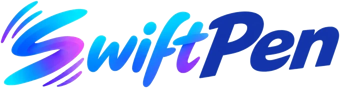
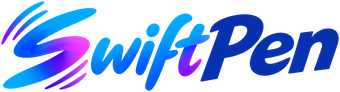
Logotipo nuevo en la web, el correo, la portada y las capturas
El mismo PNG que la app (más resolución, sin borde blanco, degradados
limpios), reducido a cada tamaño. La portada se rehizo quitando el logo
viejo y rellenando su hueco con el degradado del fondo; las capturas de
la biblioteca llevan el logo nuevo en la barra. URLs con versión nueva para
que el correo y las redes no sirvan el viejo desde caché.

diff --git a/swiftpen/privacidad/index.html b/swiftpen/privacidad/index.html
@@ -11,7 +11,7 @@
 <meta property="og:title" content="Privacidad | SwiftPen">
 <meta property="og:description" content="Tus notas son tuyas y se quedan en tu dispositivo.">
 <meta property="og:url" content="https://matias-alm.github.io/swiftpen/privacidad/">
-<meta property="og:image" content="https://matias-alm.github.io/swiftpen/img/portada.jpg?v=2">
+<meta property="og:image" content="https://matias-alm.github.io/swiftpen/img/portada.jpg?v=3">
 <meta property="og:image:width" content="1200">
 <meta property="og:image:height" content="630">
 <meta property="og:image:alt" content="SwiftPen, notas a mano para Android">
@@ -25,8 +25,8 @@
 <header class="barra">
   <div class="contenedor">
     <a class="marca" href="../" aria-label="SwiftPen">
-      <img class="claro" src="../img/wordmark-light.webp" alt="SwiftPen" width="680" height="176">
-      <img class="oscuro" src="../img/wordmark-dark.webp" alt="SwiftPen" width="680" height="180">
+      <img class="claro" src="../img/wordmark-light.webp" alt="SwiftPen" width="680" height="185">
+      <img class="oscuro" src="../img/wordmark-dark.webp" alt="SwiftPen" width="680" height="185">
     </a>
     <nav class="navegacion">
       <a class="enlace" href="../"><span lang="es">Volver a SwiftPen</span><span lang="en">Back to SwiftPen</span></a>

diff --git a/swiftpen/index.html b/swiftpen/index.html
@@ -10,7 +10,7 @@
 <meta property="og:title" content="SwiftPen">
 <meta property="og:description" content="Un cuaderno que es tuyo. De verdad.">
 <meta property="og:url" content="https://matias-alm.github.io/swiftpen/">
-<meta property="og:image" content="https://matias-alm.github.io/swiftpen/img/portada.jpg?v=2">
+<meta property="og:image" content="https://matias-alm.github.io/swiftpen/img/portada.jpg?v=3">
 <meta property="og:image:width" content="1200">
 <meta property="og:image:height" content="630">
 <meta property="og:image:alt" content="SwiftPen, notas a mano para Android">
@@ -52,8 +52,8 @@
 <header class="barra">
   <div class="contenedor">
     <a class="marca" href="./" aria-label="SwiftPen">
-      <img class="claro" src="img/wordmark-light.webp" alt="SwiftPen" width="680" height="176">
-      <img class="oscuro" src="img/wordmark-dark.webp" alt="SwiftPen" width="680" height="180">
+      <img class="claro" src="img/wordmark-light.webp" alt="SwiftPen" width="680" height="185">
+      <img class="oscuro" src="img/wordmark-dark.webp" alt="SwiftPen" width="680" height="185">
     </a>
     <nav class="navegacion">
       <a class="enlace" href="#funciones"><span lang="es">Funciones</span><span lang="en">Features</span></a>

diff --git a/_correo/gracias.html b/_correo/gracias.html
@@ -29,7 +29,7 @@
           <tr>
             <td align="center" style="padding:0 0 24px;">
               <a href="https://matias-alm.github.io/swiftpen/" style="text-decoration:none;">
-                <img src="https://matias-alm.github.io/swiftpen/img/correo/wordmark.png" width="170" alt="SwiftPen" style="display:block; width:170px; height:auto; border:0;">
+                <img src="https://matias-alm.github.io/swiftpen/img/correo/wordmark.png?v=2" width="170" alt="SwiftPen" style="display:block; width:170px; height:auto; border:0;">
               </a>
             </td>
           </tr>
